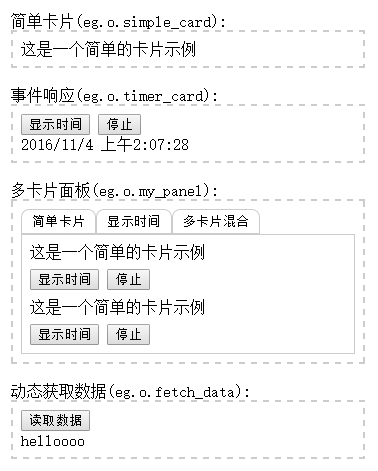
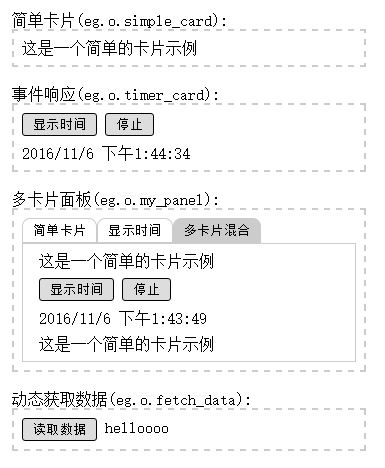
PANEL点击的TAG与当前TAG相同时不切换。美化example.。

diff --git a/src/js/example.js b/src/js/example.js
@@ -2,22 +2,22 @@
 
 /* global cardjs */
 
- /*
-  * 生成一个cardjs实例
-  * 其实就是给cardjs改个你喜欢的名字此后都不用打 cardjs.***。
-  * 
-  * 整个cardjs只有一个cNew函数，结构如下：
-  * cNew:function( 容器ID ){
-  *   f: 各个通用小函数，例如：html_escape()将“&<>”这些符号过滤掉。
-  *   o: 存放各个由cardjs派生出来的对象，留给PAGE及PANEL调用。
-  *   CARD: “卡片”对象(后面创建时再详细说明）。
-  *   PAGE: “页”对象(后面创建时再详细说明）。
-  *   PANEL: “面板”对象(后面创建时再详细说明）。
-  * }
-  * 
-  */
-  
-  
+/*
+ * 生成一个cardjs实例
+ * 其实就是给cardjs改个你喜欢的名字此后都不用打 cardjs.***。
+ * 
+ * 整个cardjs只有一个cNew函数，结构如下：
+ * cNew:function( 容器ID ){
+ *   f: 各个通用小函数，例如：html_escape()将“&<>”这些符号过滤掉。
+ *   o: 存放各个由cardjs派生出来的对象，留给PAGE及PANEL调用。
+ *   CARD: “卡片”对象(后面创建时再详细说明）。
+ *   PAGE: “页”对象(后面创建时再详细说明）。
+ *   PANEL: “面板”对象(后面创建时再详细说明）。
+ * }
+ * 
+ */
+
+
 var eg = cardjs.cNew();
 
 /*
@@ -77,7 +77,7 @@ eg.o.timer_card = {
         tcard.update = function () {
             tcard.objs[2].innerHTML = (new Date()).toLocaleString();
             // for debug
-            console.log(tcard.ids[2]+": "+tcard.objs[2].innerHTML);
+            console.log(tcard.ids[2] + ": " + tcard.objs[2].innerHTML);
         };
 
         // 生成处理事件的函数组（名字必须用 ev_handler）
@@ -89,7 +89,7 @@ eg.o.timer_card = {
                      * 在重绘、销毁时会自动删除。
                      * 可以通过些函数的第三个参数来设置多个时钟。
                      * 详见 card.js 的 cjs.CARD.f.set_timer 函数。
-                     */ 
+                     */
                     tcard.f.set_timer(tcard.update, 1000);
                 },
                 function () {
@@ -108,7 +108,7 @@ eg.o.timer_card = {
          *      ... 解绑代码 ...
          *  };
          */
-        
+
         tcard.add_event = function () {
             tcard.f.on('click', 0, 0);
             tcard.f.on('click', 1, 1);
@@ -129,18 +129,21 @@ eg.o.my_panel = {
                     ['多卡片混合', ['simple_card', 'timer_card', 'simple_card']]
                 ],
                 // panel 调用 example.css 中的样式
-                {
-                    // 顶上的标签按钮
-                    'tag': 'cjs-pn-tag',
-                    // 各个“页”的外框
-                    'page': 'cjs-pn-div',
-                    // 各个“卡片”的外框
-                    'card': 'cjs-card-div'
-                });
-        mp.show();
-        mp.show_page(1);
-        return mp;
-    }
+                        {
+                            // 顶上的标签按钮
+                            'tag': 'cjs-pn-tag',
+                            // 各个“页”的外框
+                            'page': 'cjs-pn-div',
+                            // 各个“卡片”的外框
+                            'card': 'cjs-card-div',
+                            // 选中时
+                            'active': 'cjs-pn-tag-active'
+                        }
+                );
+                mp.show();
+                mp.show_page(1);
+                return mp;
+            }
 };
 
 /*
@@ -156,7 +159,7 @@ eg.o.my_panel = {
  * 上面那个函数只是简单的将数据存入 cjs.CARD.data 然后调用 cjs.CARD.show();
  * 当然你可以重写此函数，对数据进行一些分配和处理。
  * 
- */ 
+ */
 eg.o.fetch_data = {
     cNew: function (container_id) {
         var fd = eg.CARD.cNew(container_id);
@@ -167,9 +170,9 @@ eg.o.fetch_data = {
         });
 
         fd.gen_html = function () {
-            return '<div class="cjs-card-div">' +
-                    '<input type="button" id="' + fd.ids[0] + '" value="读取数据">' +
-                    '<div id="' + fd.ids[1] + '"></div>' +
+            return '<div class="cjs-card-div" style="overflow:auto;">' +
+                    '<input type="button" id="' + fd.ids[0] + '" value="读取数据" class="cjs-btn" style="float:left;">' +
+                    '<div style="float:left;" id="' + fd.ids[1] + '"></div>' +
                     '</div>';
         };
 

diff --git a/src/lib/card.js b/src/lib/card.js
@@ -14,6 +14,9 @@ var cardjs = {
 
         //各通用小函数
         cjs.f = {
+            clamp: function (val, min, max) {
+                return Math.min(Math.max(val, min), max);
+            },
             html_escape: function (unsafe) {
                 return unsafe
                         .replace(/&/g, "&amp;")
@@ -429,6 +432,7 @@ var cardjs = {
                 }
 
                 pn.cjsv.cur_page = null;
+                pn.cjsv.cur_pn = -1;
                 pn.settings.id_num = pn.pages.length + 1;
 
                 pn.clean_up = function () {
@@ -440,6 +444,11 @@ var cardjs = {
 
                 pn.show_page = function (n) {
                     var num = pn.pages.length;
+                    n=cjs.f.clamp(n,0,num);
+                    if (pn.cjsv.cur_pn === n) {
+                        return;
+                    }
+                    pn.cjsv.cur_pn = n;
                     // 改用css控制显示效果
                     pn.clean_up();
                     pn.cjsv.cur_page = cjs.PAGE.cNew(
@@ -447,6 +456,14 @@ var cardjs = {
                             pn.pages[n][1],
                             pn.settings.style['card']);
                     pn.cjsv.cur_page.show();
+                    if (pn.settings.style['active']) {
+                        for (var i = 0; i < num; ++i) {
+                            if (pn.settings.style['tag']) {
+                                pn.objs[i].setAttribute('class', pn.settings.style['tag']);
+                            }
+                        }
+                        pn.objs[n].setAttribute('class', pn.settings.style['active']);
+                    }
                 };
 
                 pn.gen_ev_handler = function () {

diff --git a/src/res/example.css b/src/res/example.css
@@ -6,16 +6,25 @@
 .cjs-card-div{
     margin:8px;
 }
-
+.cjs-timer-text{
+    margin-top: 8px;
+}
 .cjs-btn{
     margin-right: 8px;
+    border: black solid 1px;
+    border-radius: 3px;
+    padding: 3px 10px 3px 10px;
 }
 
 .cjs-panel-button{
     margin-right: 8px;
 }
-.cjs-pn-tag:focus{
-    background-color: skyblue;
+
+.cjs-pn-tag-active{
+    border: 1px solid #ccc;
+    padding: 4px 10px 4px 10px;
+    border-radius: 8px 8px 0px 0px;
+    background-color: #ccc;
     outline: none;
 }
 
